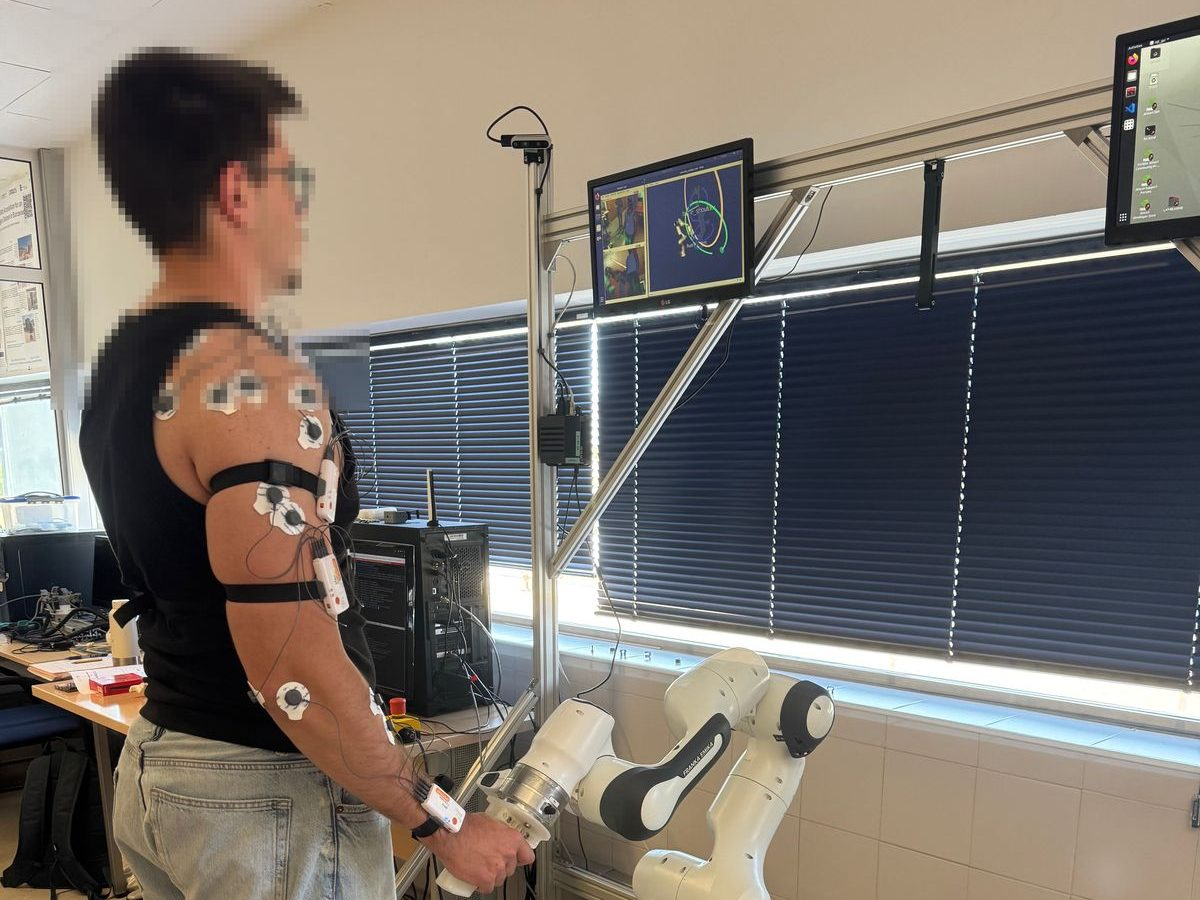
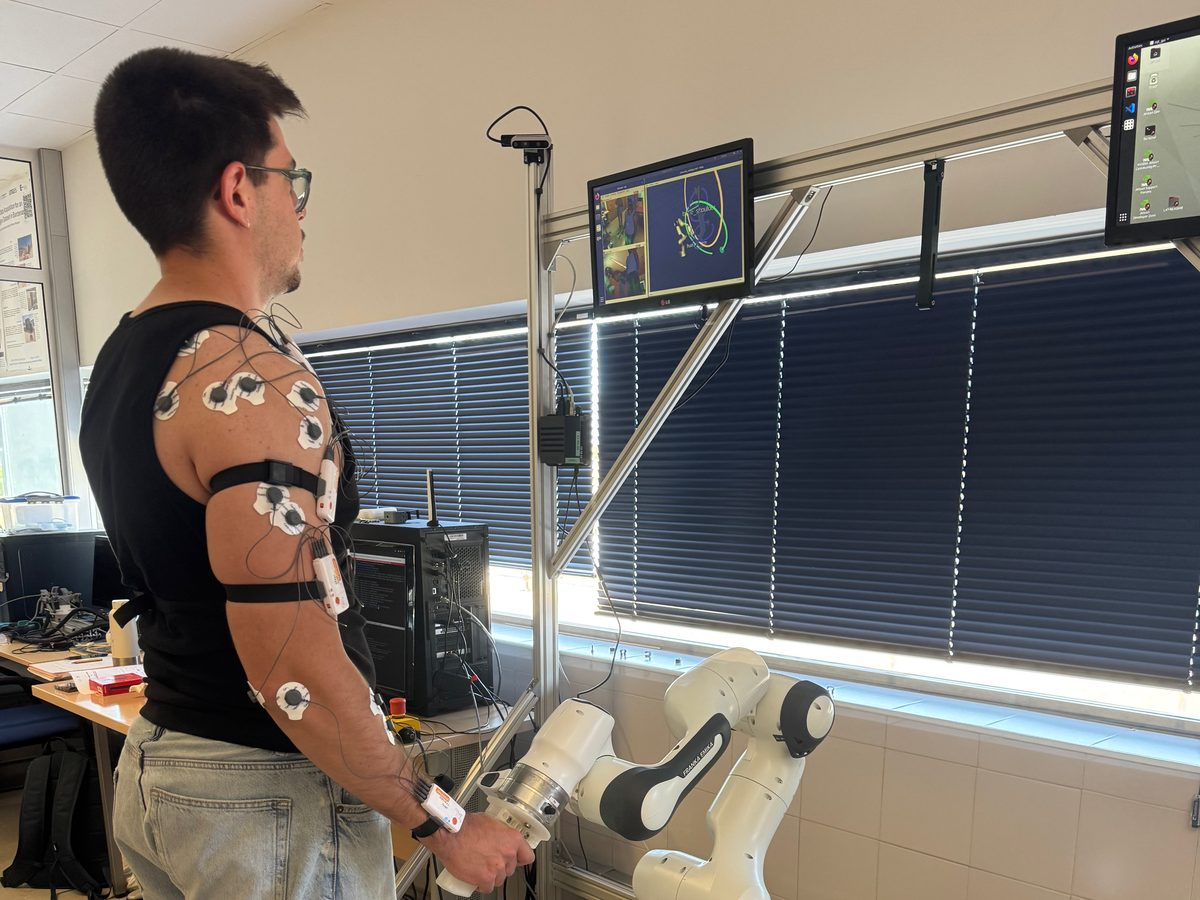
Publicar las fotos del demostrador sin pixelar (autorización confirmada)
El usuario confirma que las personas que aparecen en las tres fotos
(garra en el antebrazo, calibración, EMG) han autorizado su
publicación con el rostro visible. Se sustituyen las versiones
pixeladas por las originales, y se añade "publicada con autorización
del participante" / "published with the participant's authorization"
en el pie de cada una y en la nota general de la sección, en línea
con el protocolo CEUMA 7-2023-H (que exige autorización expresa para
mostrar el rostro, no lo prohíbe de forma absoluta).

Claude-Session: https://claude.ai/code/session_01Aaav3g1PxfuC2pCu5Sbttr

diff --git a/index.html b/index.html
@@ -373,22 +373,22 @@
         </figure>
         <figure class="gallery-photo">
           <img src="assets/img/gripper-forearm-web.jpg" alt="Garra pHRI agarrando el antebrazo de una persona, integrada en el brazo robótico" loading="lazy">
-          <figcaption data-lang="es">Garra pHRI agarrando el antebrazo</figcaption>
-          <figcaption data-lang="en">pHRI gripper grasping the forearm</figcaption>
+          <figcaption data-lang="es">Garra pHRI agarrando el antebrazo · publicada con autorización del participante</figcaption>
+          <figcaption data-lang="en">pHRI gripper grasping the forearm · published with the participant's authorization</figcaption>
         </figure>
         <figure class="gallery-photo">
           <img src="assets/img/calibration-web.jpg" alt="Calibración del sistema de percepción multicámara con patrón de tablero" loading="lazy">
-          <figcaption data-lang="es">Calibración del sistema de percepción</figcaption>
-          <figcaption data-lang="en">Perception system calibration</figcaption>
+          <figcaption data-lang="es">Calibración del sistema de percepción · publicada con autorización del participante</figcaption>
+          <figcaption data-lang="en">Perception system calibration · published with the participant's authorization</figcaption>
         </figure>
         <figure class="gallery-photo">
           <img src="assets/img/emg-trial-web.jpg" alt="Validación con electromiografía de superficie durante un ensayo de control compartido" loading="lazy">
-          <figcaption data-lang="es">Validación con electromiografía (EMG)</figcaption>
-          <figcaption data-lang="en">Validation with electromyography (EMG)</figcaption>
+          <figcaption data-lang="es">Validación con electromiografía (EMG) · publicada con autorización del participante</figcaption>
+          <figcaption data-lang="en">Validation with electromyography (EMG) · published with the participant's authorization</figcaption>
         </figure>
       </div>
-      <p class="conf-note" data-lang="es">Nota: todas las imágenes y vídeos que se publiquen deberán revisarse para no mostrar el rostro de los participantes, conforme al protocolo aprobado por el Comité Ético de Experimentación de la Universidad de Málaga (CEUMA), registro n.º 7-2023-H. Las fotos de participantes de esta galería tienen el rostro pixelado por este motivo.</p>
-      <p class="conf-note" data-lang="en">Note: all published images and videos must be reviewed to ensure participants' faces are not shown, in accordance with the protocol approved by the University of Málaga Research Ethics Committee (CEUMA), registration no. 7-2023-H. Photos of participants in this gallery have their faces pixelated for this reason.</p>
+      <p class="conf-note" data-lang="es">Nota: el protocolo aprobado por el Comité Ético de Experimentación de la Universidad de Málaga (CEUMA), registro n.º 7-2023-H, exige no mostrar el rostro de los participantes salvo autorización expresa. Las fotos de participantes de esta galería se publican con autorización expresa de la persona correspondiente.</p>
+      <p class="conf-note" data-lang="en">Note: the protocol approved by the University of Málaga Research Ethics Committee (CEUMA), registration no. 7-2023-H, requires that participants' faces not be shown unless expressly authorised. Photos of participants in this gallery are published with the express authorisation of the person concerned.</p>
     </div>
   </section>
 
